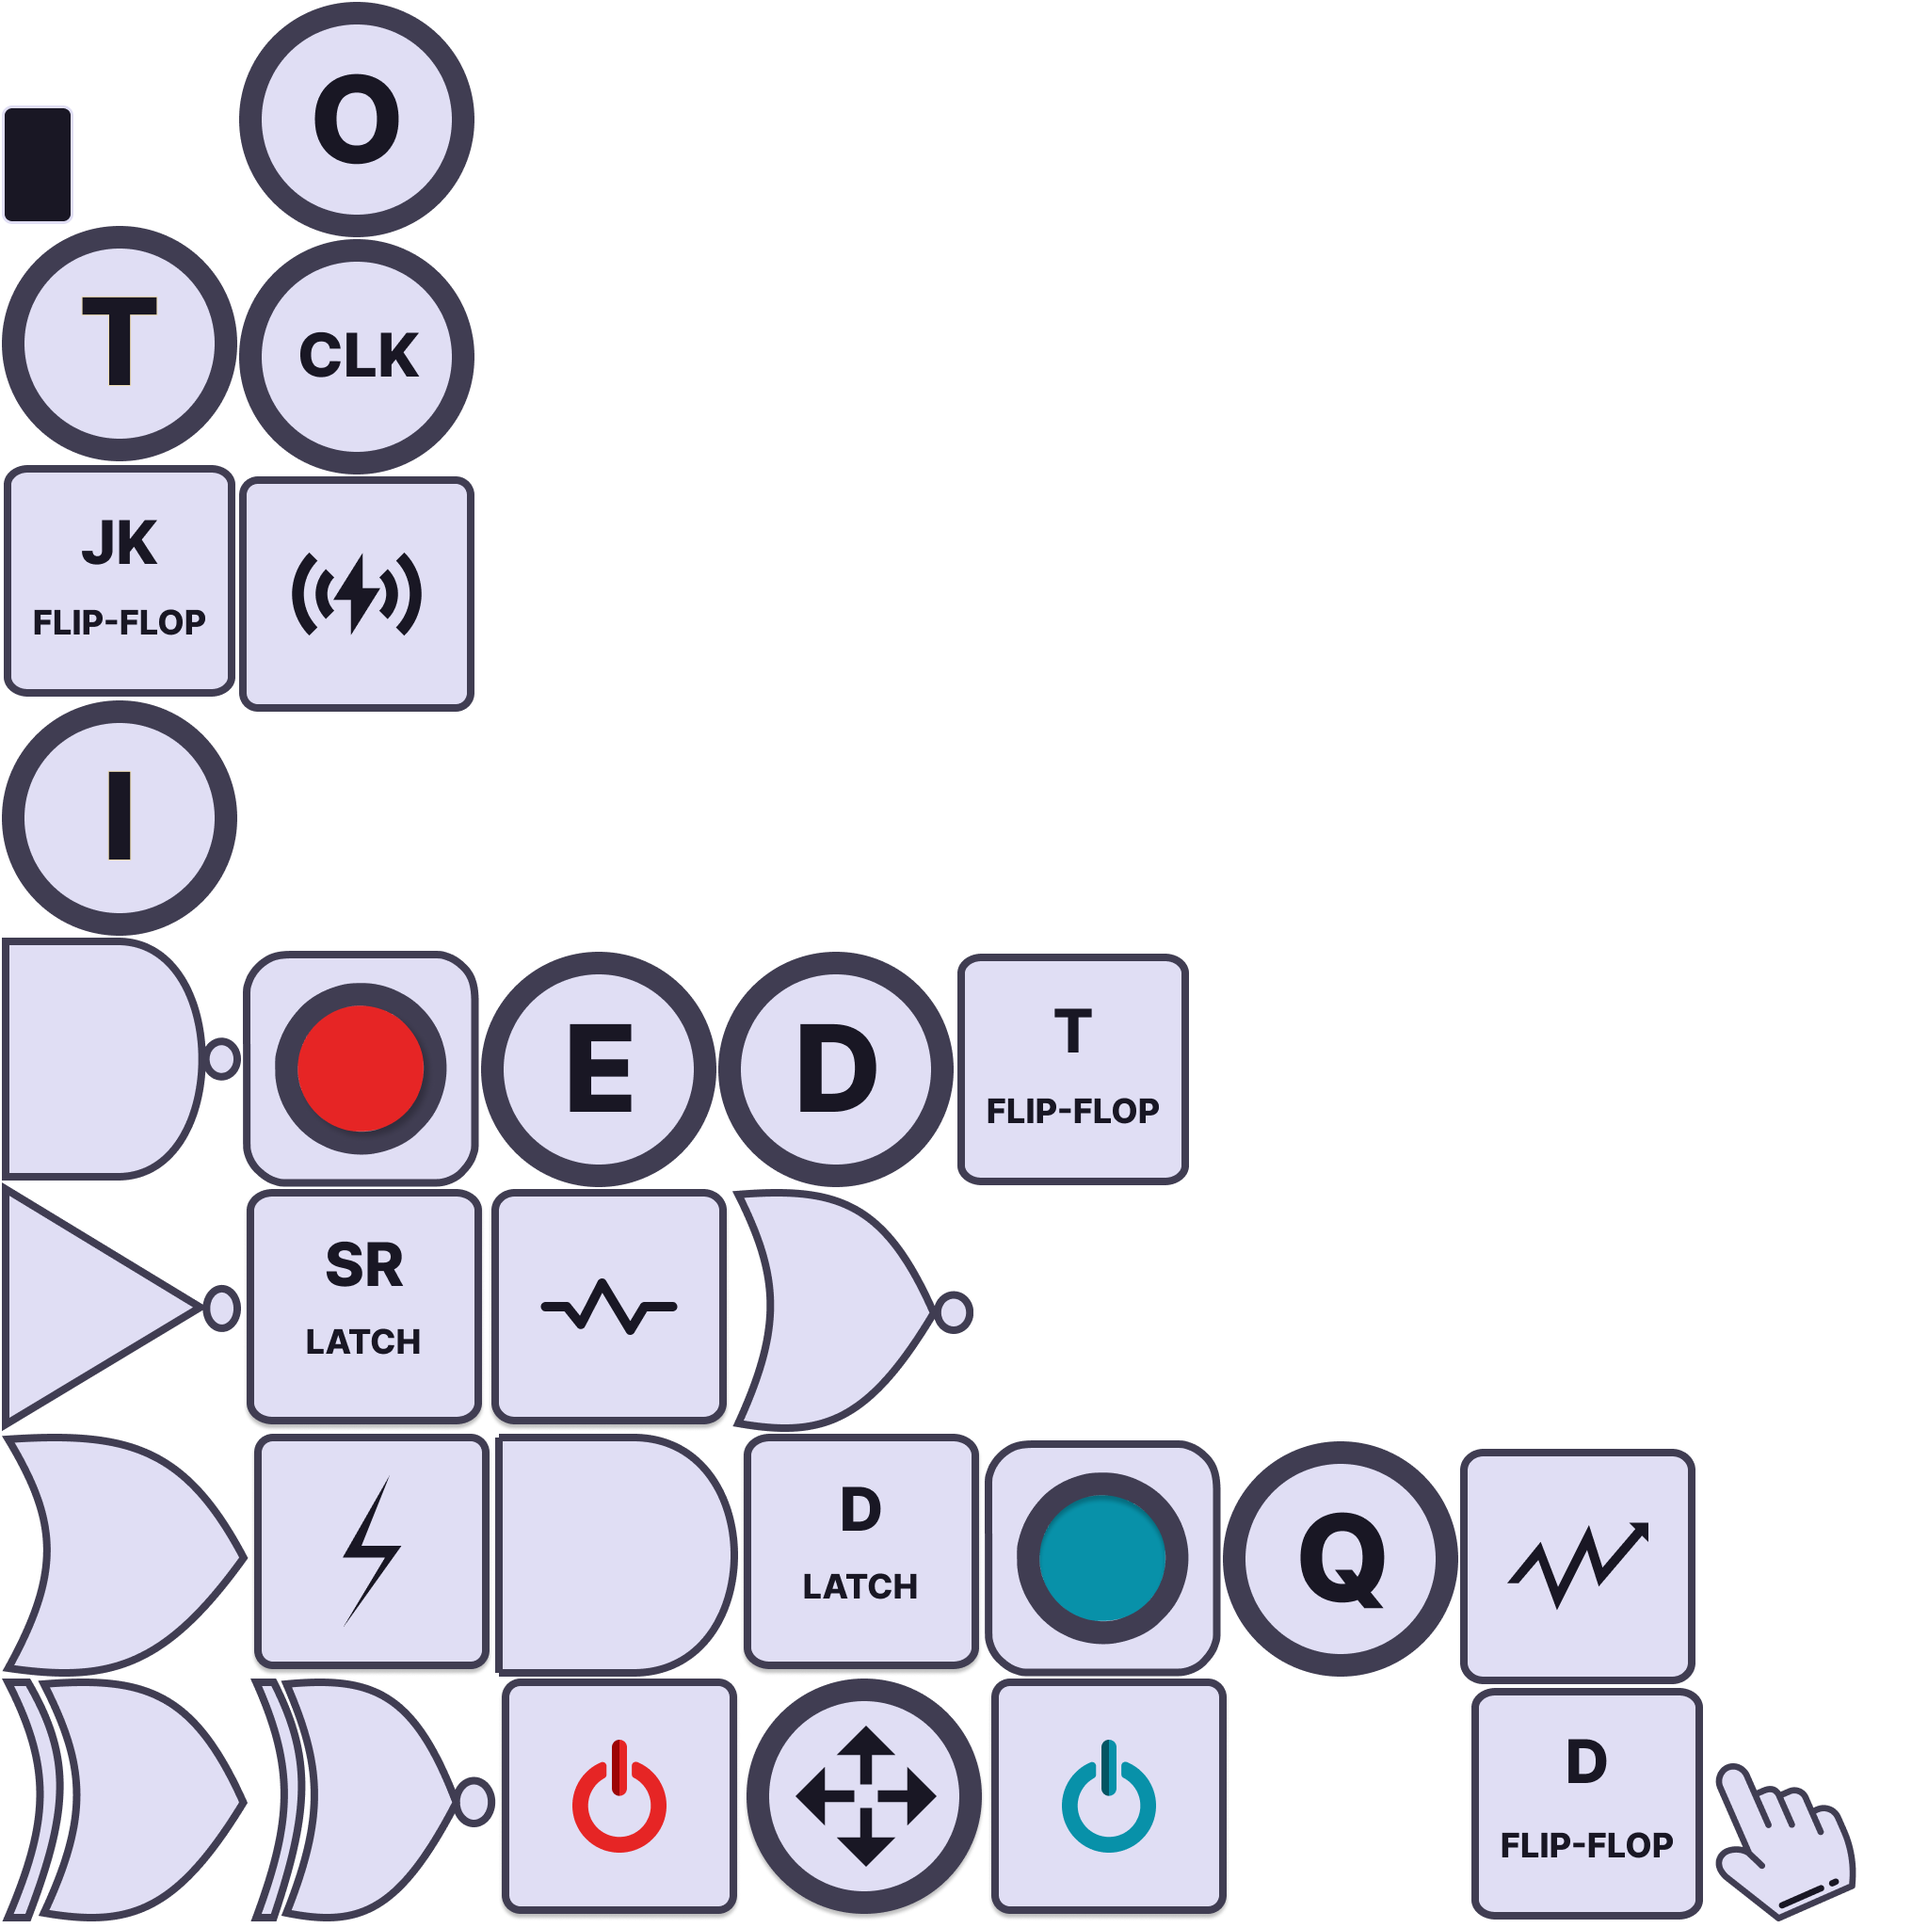
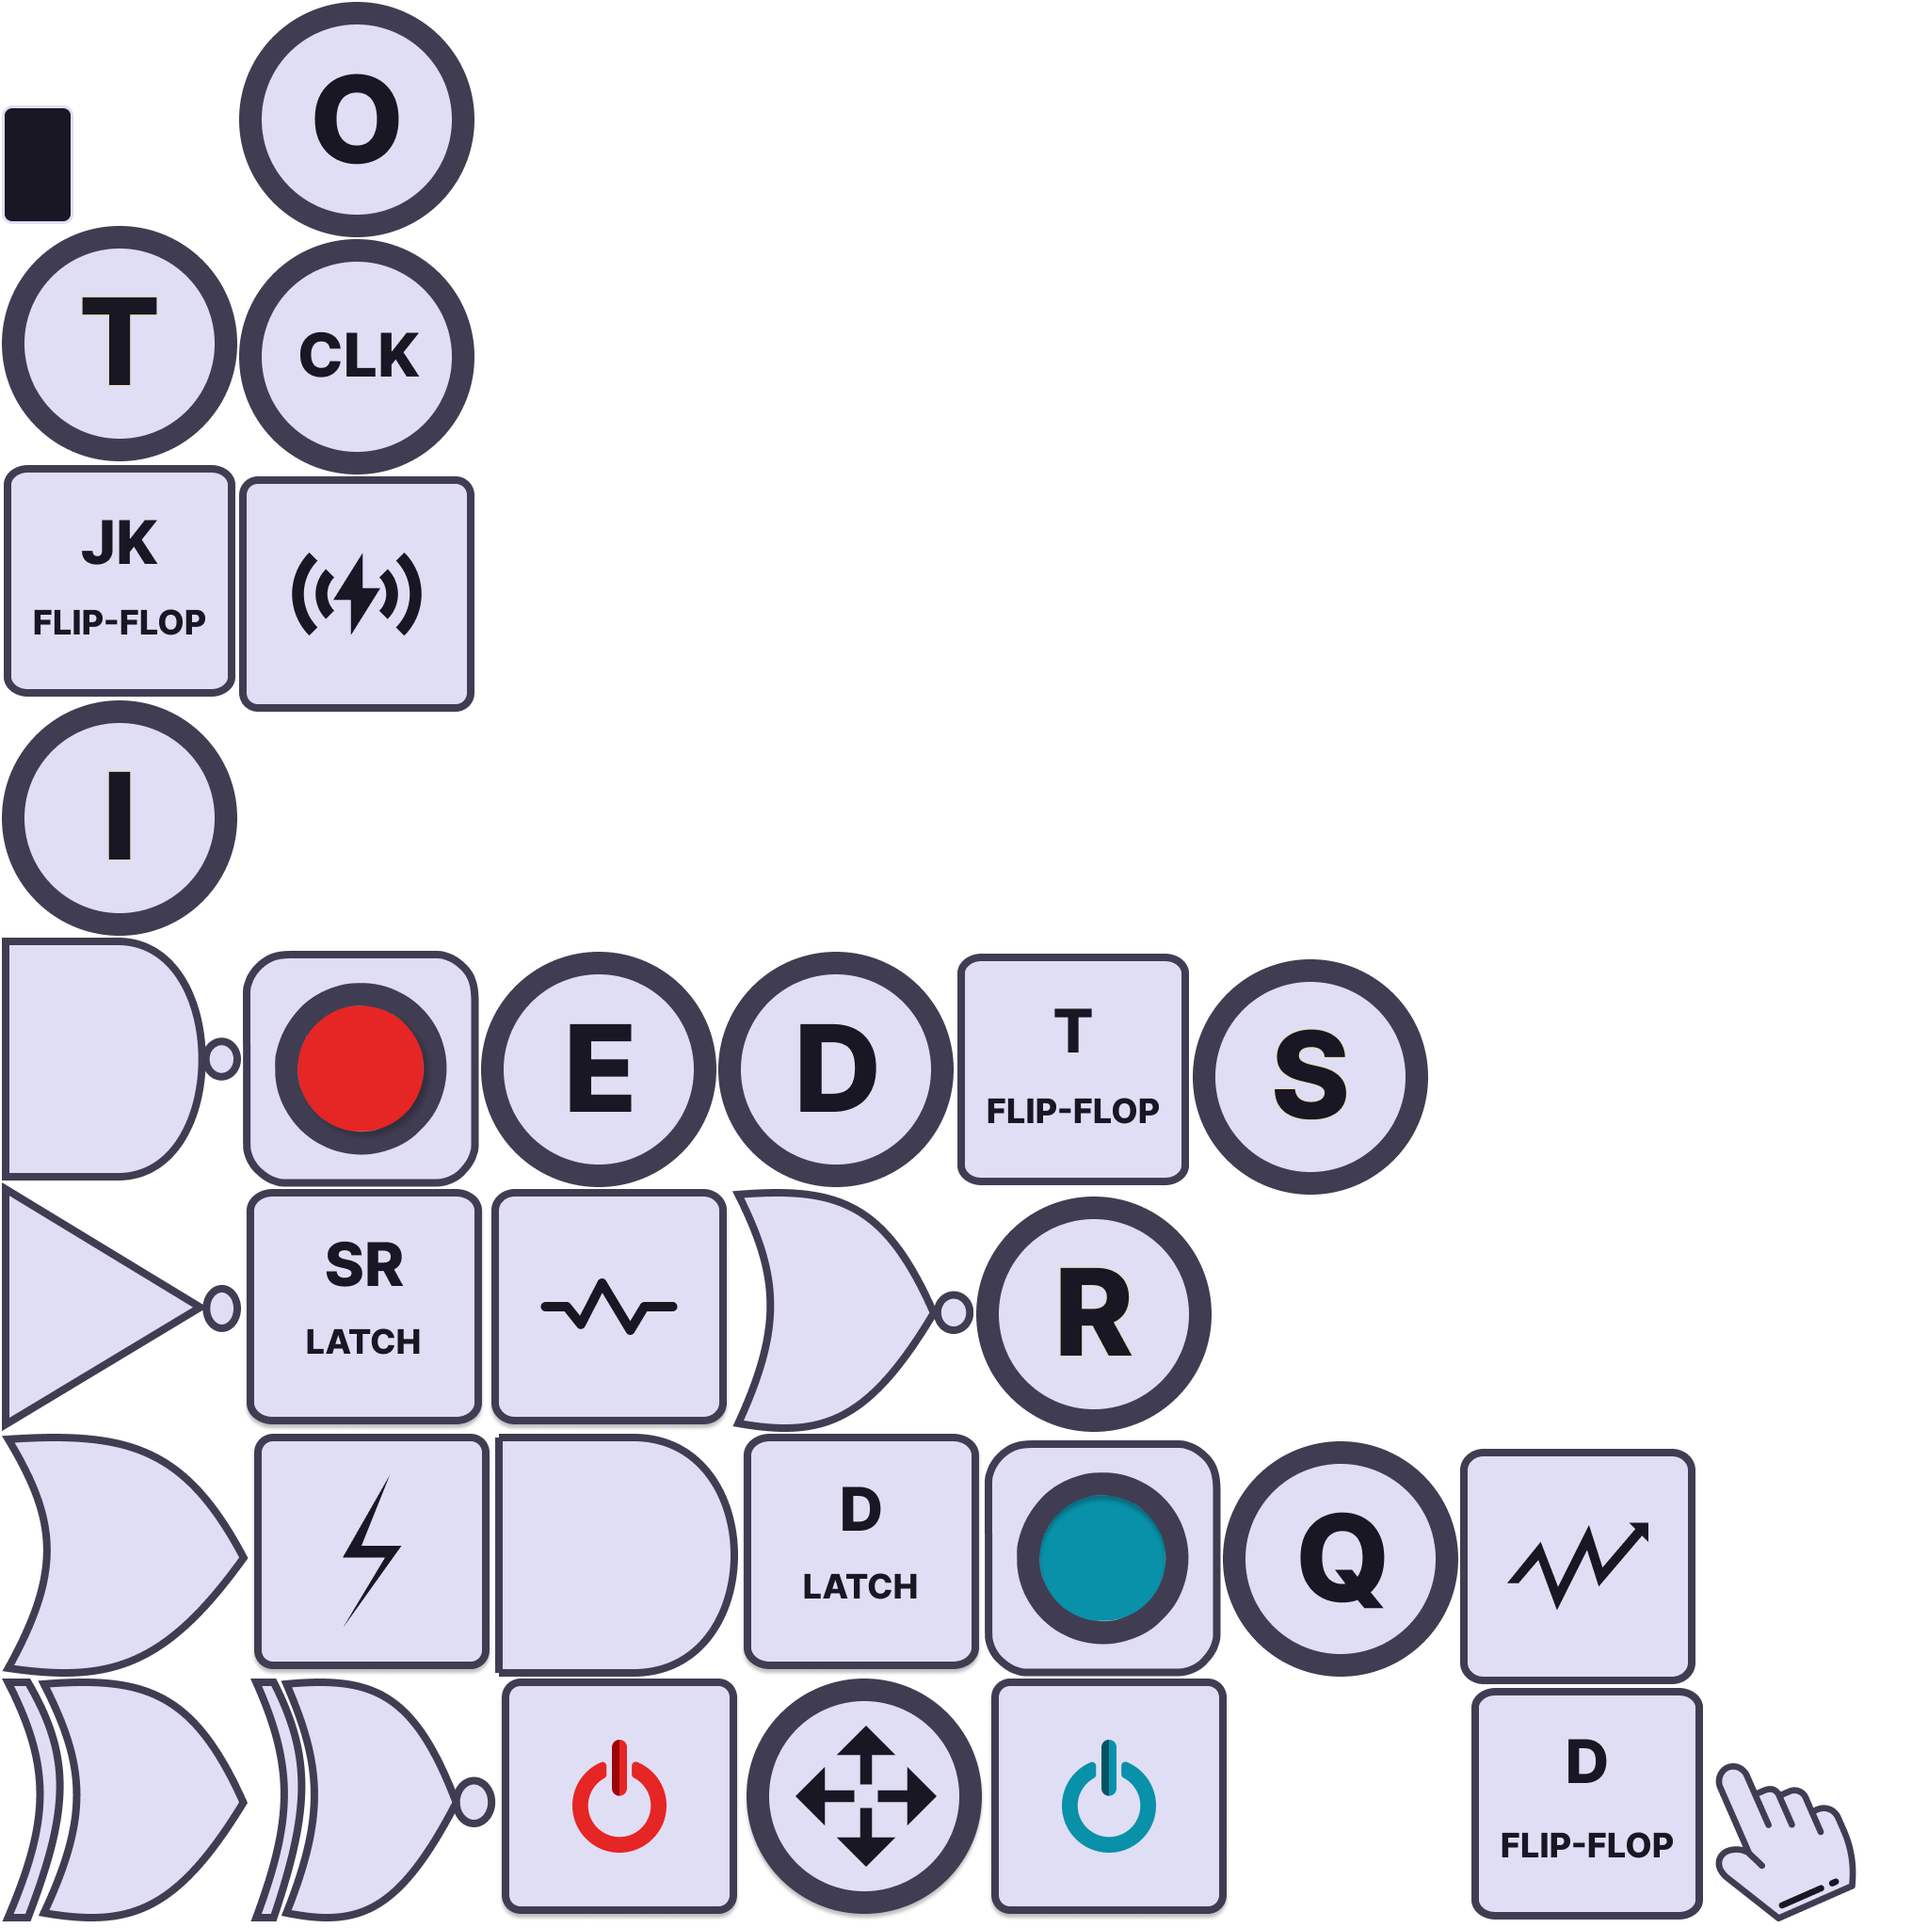
added SR-latch

Changed region(s): [[0.5938, 0.5, 0.75, 0.625], [0.5, 0.625, 0.625, 0.75]]

diff --git a/android/src/main/java/org/engine/simulogic/android/circuits/logic/ConnectionManager.kt b/android/src/main/java/org/engine/simulogic/android/circuits/logic/ConnectionManager.kt
@@ -19,16 +19,19 @@ class ConnectionManager(
     init {
         validationMap[CTypes.SIGNAL_IN] = listOf(CTypes.SIGNAL_OUT, CTypes.Q_SIGNAL_OUT, CTypes.SIGNAL_RANGE_POINT)
         validationMap[CTypes.SIGNAL_OUT] =
-            listOf(CTypes.SIGNAL_IN, CTypes.D_SIGNAL_IN, CTypes.E_SIGNAL_IN, CTypes.CLK_SIGNAL_IN, CTypes.T_SIGNAL_IN)
+            listOf(CTypes.SIGNAL_IN, CTypes.D_SIGNAL_IN, CTypes.E_SIGNAL_IN, CTypes.CLK_SIGNAL_IN, CTypes.T_SIGNAL_IN,
+                CTypes.S_SIGNAL_IN, CTypes.R_SIGNAL_IN)
         validationMap[CTypes.E_SIGNAL_IN] = listOf(CTypes.SIGNAL_OUT, CTypes.Q_SIGNAL_OUT)
         validationMap[CTypes.D_SIGNAL_IN] = listOf(CTypes.SIGNAL_OUT, CTypes.Q_SIGNAL_OUT)
         validationMap[CTypes.CLK_SIGNAL_IN] = listOf(CTypes.SIGNAL_OUT, CTypes.Q_SIGNAL_OUT)
         validationMap[CTypes.T_SIGNAL_IN] = listOf(CTypes.SIGNAL_OUT, CTypes.Q_SIGNAL_OUT)
+        validationMap[CTypes.S_SIGNAL_IN] = listOf(CTypes.SIGNAL_OUT, CTypes.Q_SIGNAL_OUT)
+        validationMap[CTypes.R_SIGNAL_IN] = listOf(CTypes.SIGNAL_OUT, CTypes.Q_SIGNAL_OUT)
         validationMap[CTypes.Q_SIGNAL_OUT] =
             listOf(CTypes.SIGNAL_IN, CTypes.D_SIGNAL_IN, CTypes.E_SIGNAL_IN, CTypes.T_SIGNAL_IN,
-                CTypes.CLK_SIGNAL_IN)
+                CTypes.CLK_SIGNAL_IN, CTypes.S_SIGNAL_IN, CTypes.R_SIGNAL_IN)
         validationMap[CTypes.SIGNAL_RANGE_POINT] = listOf(CTypes.SIGNAL_IN, CTypes.E_SIGNAL_IN, CTypes.D_SIGNAL_IN,
-            CTypes.T_SIGNAL_IN, CTypes.CLK_SIGNAL_IN)
+            CTypes.T_SIGNAL_IN, CTypes.CLK_SIGNAL_IN, CTypes.S_SIGNAL_IN, CTypes.R_SIGNAL_IN)
     }
 
     fun resolveConnection() {

diff --git a/android/src/main/java/org/engine/simulogic/android/views/ComponentBottomSheet.kt b/android/src/main/java/org/engine/simulogic/android/views/ComponentBottomSheet.kt
@@ -97,14 +97,14 @@ class ComponentBottomSheet(private val listener: IComponentAdapterListener? = nu
         displayAdapter.insert(BCD_DISPLAY_COMPONENT, R.drawable.bcd_display)
         val memoryAdapter = ComponentViewAdapter()
         memoryAdapter.insert(D_LATCH_COMPONENT, R.drawable.d_latch)
+        memoryAdapter.insert(SR_LATCH_COMPONENT, R.drawable.sr_latch,isPremium = true)
         memoryAdapter.insert(D_FLIP_FLOP_COMPONENT, R.drawable.d_flip_flop)
-        memoryAdapter.insert(T_FLIP_FLOP_COMPONENT, R.drawable.t_flip_flop)
-       /* memoryAdapter.insert(SR_LATCH_COMPONENT, R.drawable.sr_latch)
-        memoryAdapter.insert(JK_FLIP_FLOP_COMPONENT, R.drawable.jk_flip_flop)*/
+        memoryAdapter.insert(T_FLIP_FLOP_COMPONENT, R.drawable.t_flip_flop,isPremium = true)
+       /* memoryAdapter.insert(JK_FLIP_FLOP_COMPONENT, R.drawable.jk_flip_flop)*/
         val generalAdapter = ComponentViewAdapter()
         generalAdapter.insert(POWER_ON_COMPONENT, R.drawable.power_on)
         generalAdapter.insert(POWER_OFF_COMPONENT, R.drawable.power_off)
-        generalAdapter.insert(PULSE_BUTTON_COMPONENT, R.drawable.pulse_button_off)
+        generalAdapter.insert(PULSE_BUTTON_COMPONENT, R.drawable.pulse_button_off,isPremium = true)
         generalAdapter.insert(RANDOM_COMPONENT, R.drawable.random)
         generalAdapter.insert(TEXT_COMPONENT, R.drawable.text)
         generalAdapter.insert(DATA_BUS_COMPONENT, R.drawable.data_bus)

diff --git a/android/src/main/java/org/engine/simulogic/android/circuits/components/latches/CSRLatch.kt b/android/src/main/java/org/engine/simulogic/android/circuits/components/latches/CSRLatch.kt
@@ -44,8 +44,8 @@ class CSRLatch(x:Float, y:Float, rotationDirection:Int, private val scene: PlayG
         }
 
         signals.add(CSignal(x + sprite.width * 0.8125f, y ,CTypes.Q_SIGNAL_OUT,0, scene))
-        signals.add(CSignal(x - sprite.width * 0.8125f, y + CDefaults.gateHeight / 2f - CDefaults.gateHeight * 0.1875f ,CTypes.D_SIGNAL_IN, 1, scene))
-        signals.add(CSignal(x - sprite.width * 0.8125f, y - CDefaults.gateHeight / 2f +  CDefaults.gateHeight * 0.1875f ,CTypes.E_SIGNAL_IN, 2, scene))
+        signals.add(CSignal(x - sprite.width * 0.8125f, y + CDefaults.gateHeight / 2f - CDefaults.gateHeight * 0.1875f ,CTypes.S_SIGNAL_IN, 1, scene))
+        signals.add(CSignal(x - sprite.width * 0.8125f, y - CDefaults.gateHeight / 2f +  CDefaults.gateHeight * 0.1875f ,CTypes.R_SIGNAL_IN, 2, scene))
 
         signals.forEach {
             attachChild(it)
@@ -89,10 +89,6 @@ class CSRLatch(x:Float, y:Float, rotationDirection:Int, private val scene: PlayG
             inputS.value == SIGNAL_INACTIVE && inputR.value == SIGNAL_ACTIVE->{
                 outputQ.value = SIGNAL_ACTIVE
                 value = SIGNAL_ACTIVE
-            }
-            else->{
-                outputQ.value = SIGNAL_INACTIVE
-                value = SIGNAL_INACTIVE
             }
         }
     }

diff --git a/android/src/main/java/org/engine/simulogic/android/views/adapters/ComponentViewAdapter.kt b/android/src/main/java/org/engine/simulogic/android/views/adapters/ComponentViewAdapter.kt
@@ -18,6 +18,13 @@ class ComponentViewAdapter : RecyclerView.Adapter<ComponentViewAdapter.Component
         fun initView(component: ComponentItem){
             itemView.findViewById<ImageView>(R.id.component_icon).setImageResource(component.res)
             itemView.findViewById<TextView>(R.id.component_header).text = component.title
+            itemView.findViewById<TextView>(R.id.isPremium).also { textView ->
+                if(component.isPremium) {
+                    textView.visibility = View.VISIBLE
+                }else{
+                    textView.visibility = View.GONE
+                }
+            }
             itemView.setOnClickListener {
                 listeners.forEach {it.onClickComponent(component) }
             }
@@ -25,8 +32,8 @@ class ComponentViewAdapter : RecyclerView.Adapter<ComponentViewAdapter.Component
     }
 
 
-    fun insert(title:String, res:Int){
-        itemList.add(ComponentItem(title, res))
+    fun insert(title:String, res:Int,isPremium: Boolean = false){
+        itemList.add(ComponentItem(title, res,isPremium))
     }
 
     fun addListener(listener: IComponentAdapterListener){

diff --git a/android/src/main/java/org/engine/simulogic/android/circuits/components/gates/CSignal.kt b/android/src/main/java/org/engine/simulogic/android/circuits/components/gates/CSignal.kt
@@ -20,6 +20,8 @@ open class CSignal(x: Float, y: Float,  type: CTypes, val signalIndex: Int, priv
             CTypes.E_SIGNAL_IN -> textureAtlas.findRegion("E-ENABLE")
             CTypes.D_SIGNAL_IN -> textureAtlas.findRegion("D-INPUT")
             CTypes.Q_SIGNAL_OUT -> textureAtlas.findRegion("Q-OUTPUT")
+            CTypes.S_SIGNAL_IN -> textureAtlas.findRegion("S-INPUT")
+            CTypes.R_SIGNAL_IN -> textureAtlas.findRegion("R-INPUT")
             CTypes.T_SIGNAL_IN -> textureAtlas.findRegion("T-INPUT")
             CTypes.CLK_SIGNAL_IN ->textureAtlas.findRegion("CLK-INPUT")
             CTypes.SIGNAL_RANGE_POINT->textureAtlas.findRegion("MOVE-INPUT")

diff --git a/android/src/main/java/org/engine/simulogic/android/views/adapters/ComponentItem.kt b/android/src/main/java/org/engine/simulogic/android/views/adapters/ComponentItem.kt
@@ -1,3 +1,3 @@
 package org.engine.simulogic.android.views.adapters
 
-data class ComponentItem(val title:String, val res:Int)
+data class ComponentItem(val title:String, val res:Int, val isPremium: Boolean = false)

diff --git a/android/src/main/java/org/engine/simulogic/android/circuits/components/CTypes.kt b/android/src/main/java/org/engine/simulogic/android/circuits/components/CTypes.kt
@@ -23,6 +23,8 @@ enum class CTypes {
     CLK_SIGNAL_IN,
     Q_SIGNAL_OUT,
     E_SIGNAL_IN,
+    S_SIGNAL_IN,
+    R_SIGNAL_IN,
     SIGNAL_RANGE_POINT,
     SEVEN_SEGMENT_DISPLAY,
     BCD_SEVEN_SEGMENT_DISPLAY,
